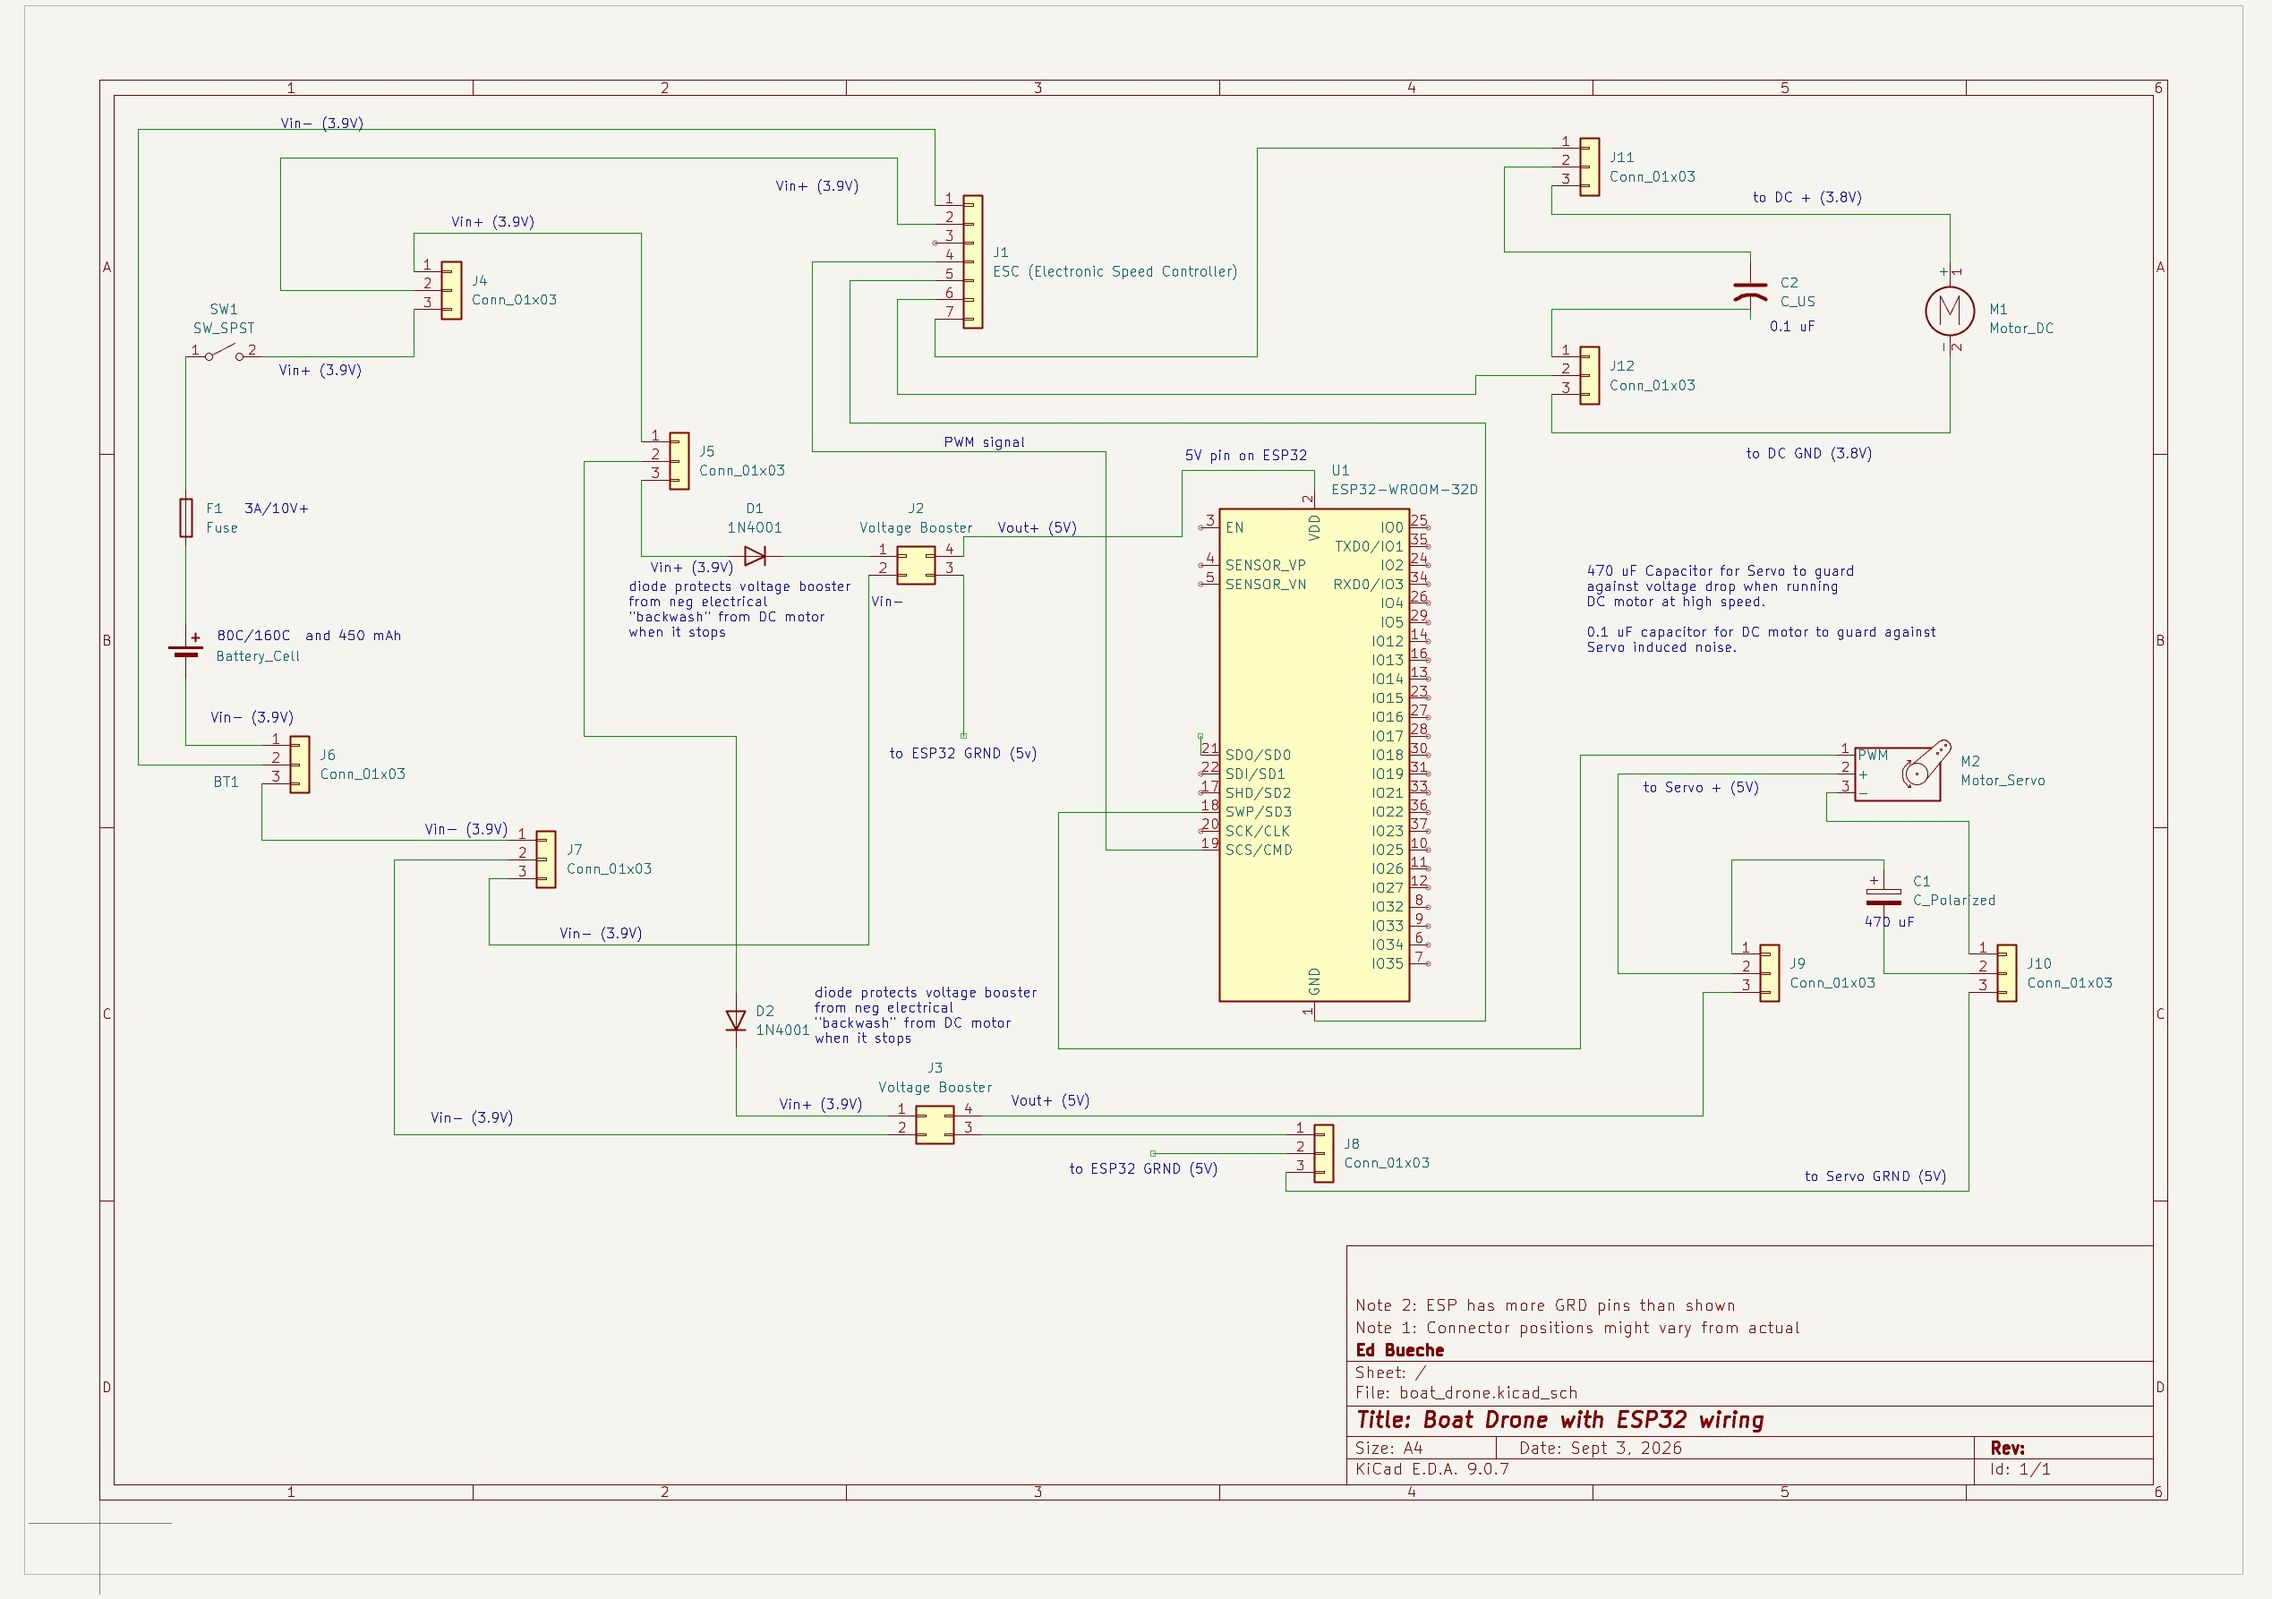
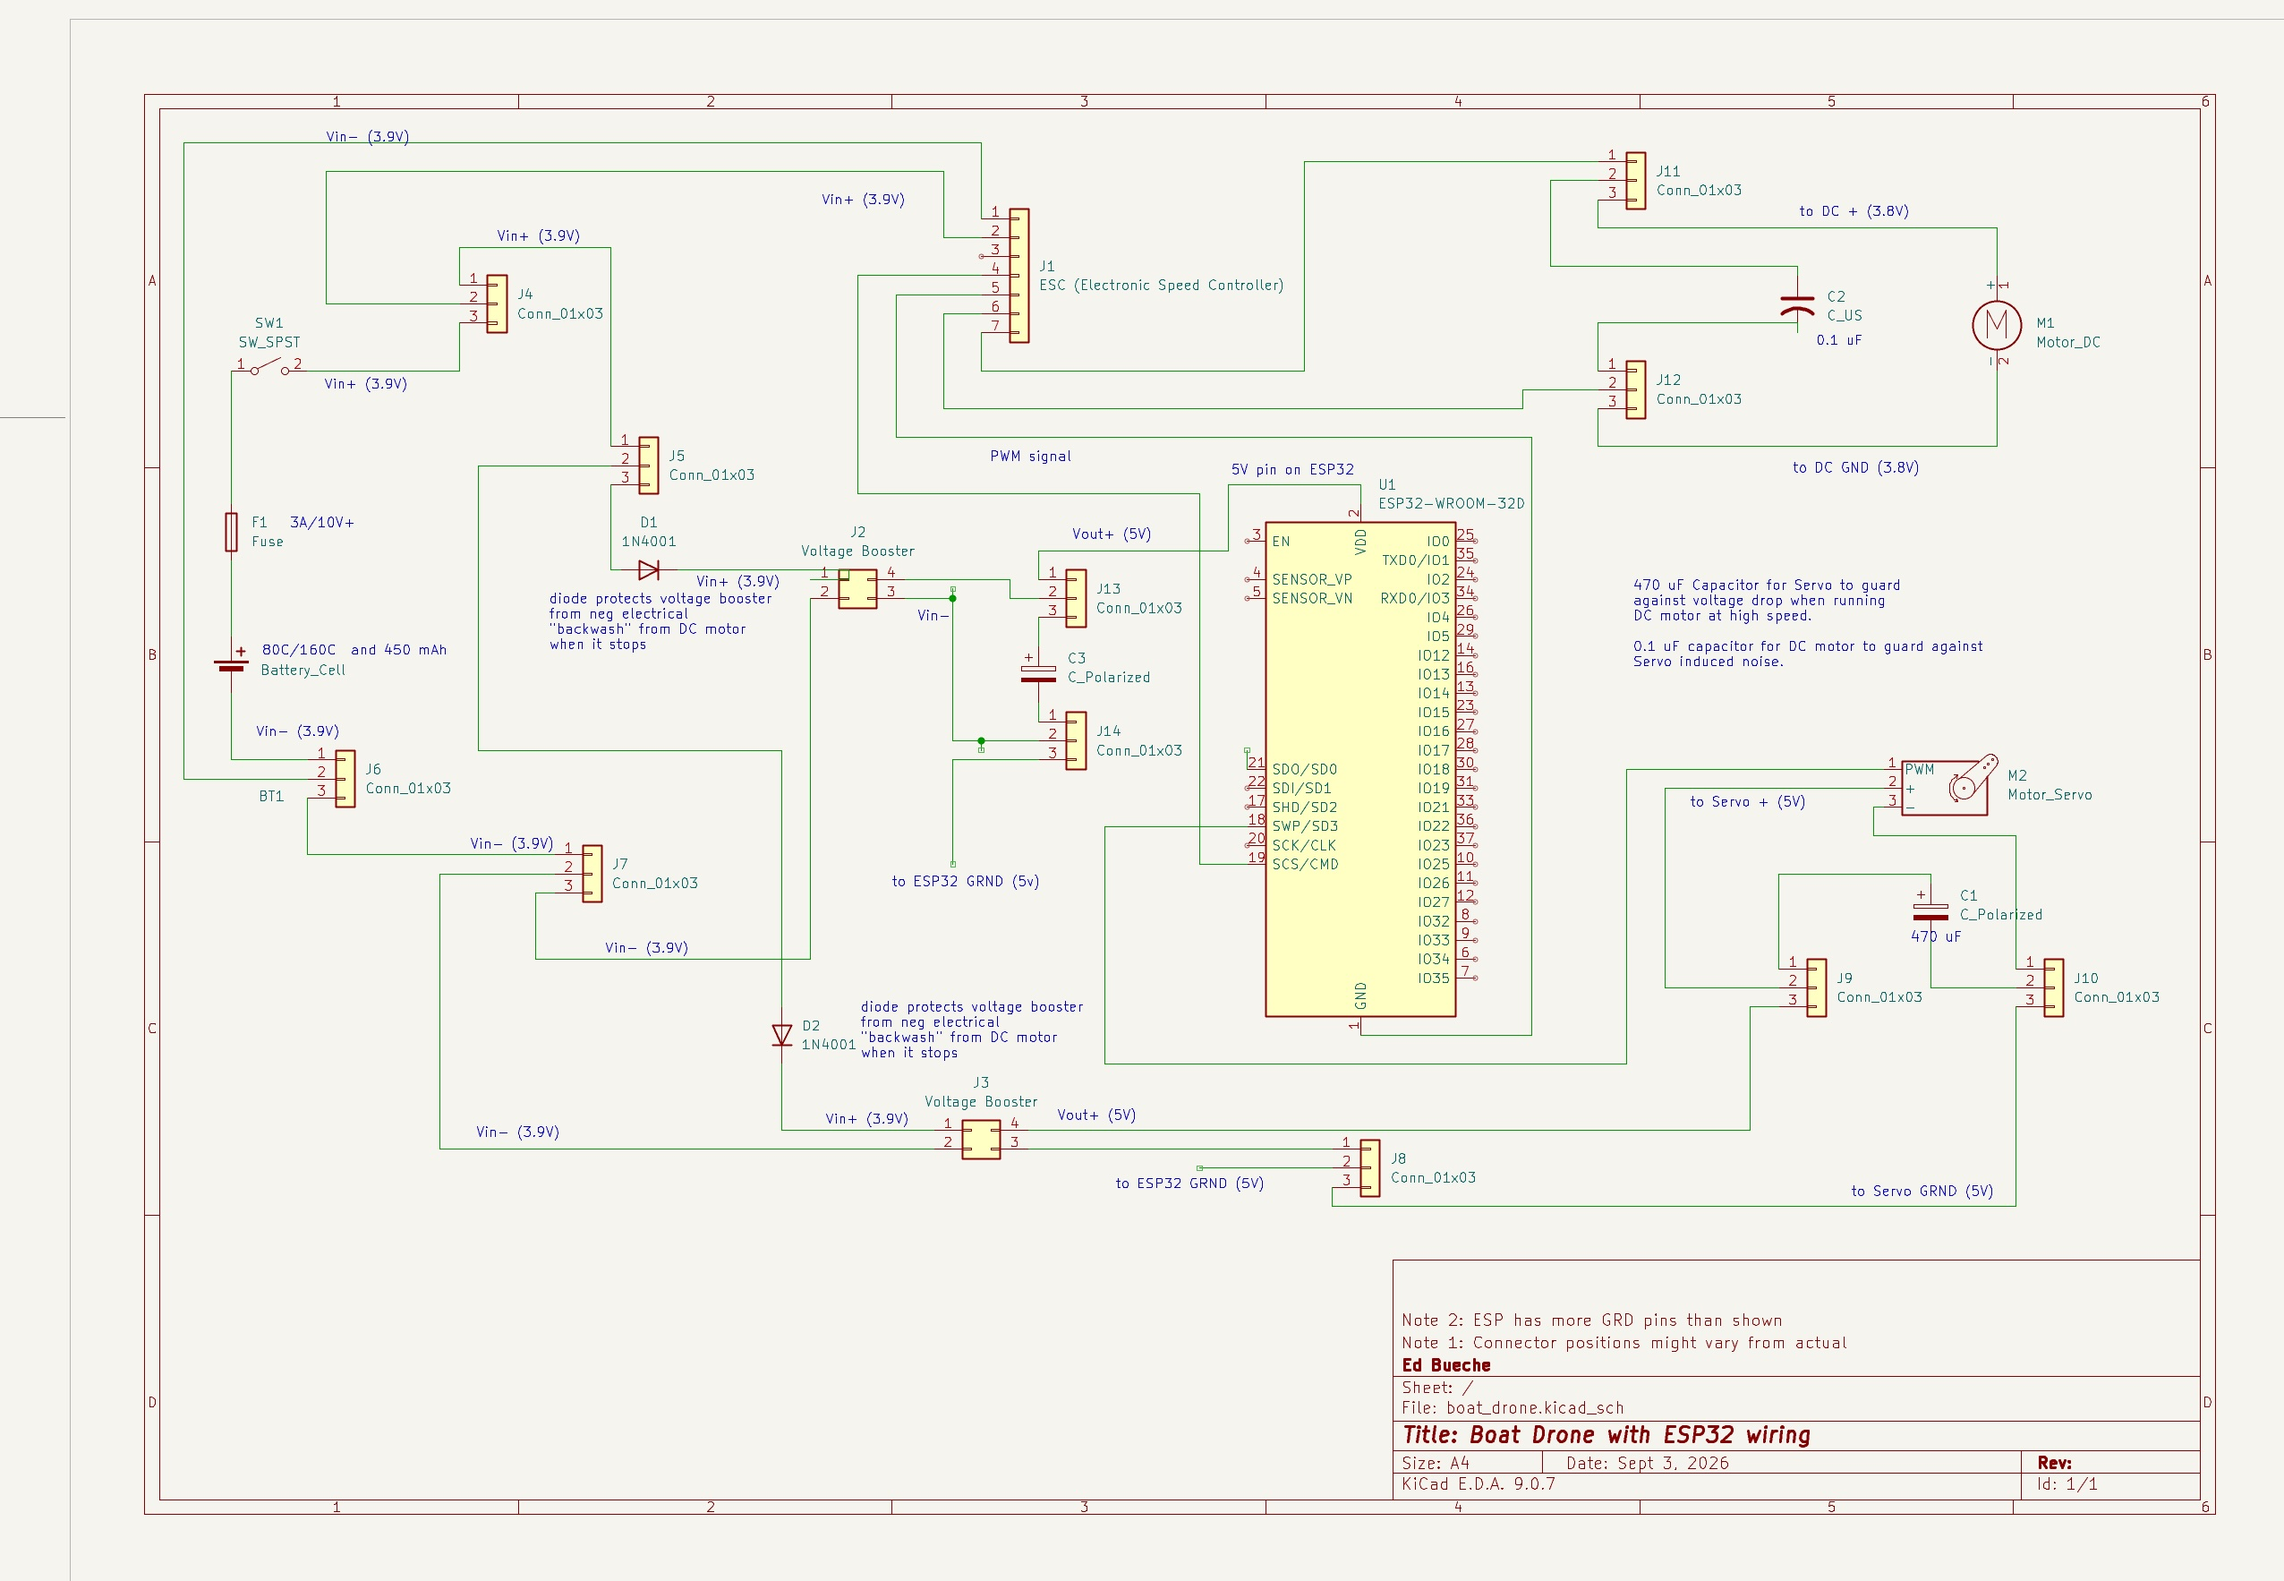
extra capacitor for esp32

diff --git a/doc/battery_powered.md b/doc/battery_powered.md
@@ -46,7 +46,7 @@ A tiny, rechargeable electrical reservoir that stores a quick burst of energy an
 Functions like (and looks kinda like) a **water tower or expansion tank**. When main pipe pressure is normal, water fills the tower. When a sudden demand causes pipe pressure to drop briefly, water instantly drains out of the tower to keep the water flowing at the tap without disruption.
 
 * **Function in Circuit:** 
-  * **Large Polarized Electrolytic ($470\,\mu\text{F} - 1000\,\mu\text{F}$):** Placed on the 5V servo power line to supply instant power bursts when the servo motor suddenly turns, keeping the main voltage smooth.
+  * **Large Polarized Electrolytic ($470\,\mu\text{F} - 1000\,\mu\text{F}$):** Placed on the 5V servo power line and the ESP32 power line to supply instant power bursts when the servo motor suddenly turns, keeping the main voltage smooth. Two separate capacitors are needed.
   * **Small Non-Polarized Ceramic ($0.1\,\mu\text{F}$):** connected the DC motor pins to absorb tiny electrical sparks and high-frequency noise generated by the spinning motor brushes before that noise can scramble the computer board.
 
 <p align="center">
@@ -175,7 +175,7 @@ The steps are annotated below.
   <img src="./images/part2-wiring-1.jpeg" alt="picture of physical capacitor connection 1" width="300">
 </p>
 
-6. Wire up the larger 470 uF capacitor to the servo flow. This is illustrated below. Longer wire should be in the positive and the shorter in the negative flow.
+6. Wire up the larger 470 uF capacitor to the servo flow and the ESP32 input power flow. Again, two separate capacitors are needed. This is illustrated below. Longer wire should be in the positive and the shorter in the negative flow.
 
 <p align="center">
   <img src="./images/part2-wiring-2.jpeg" alt="picture of physical capacitor connection 2" width="300">
